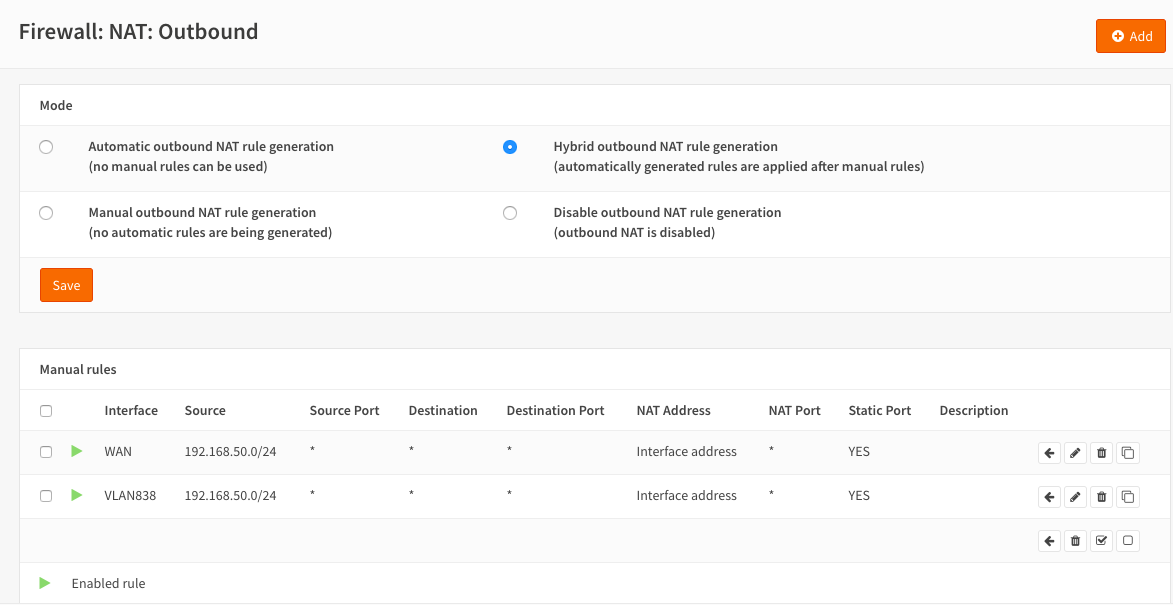
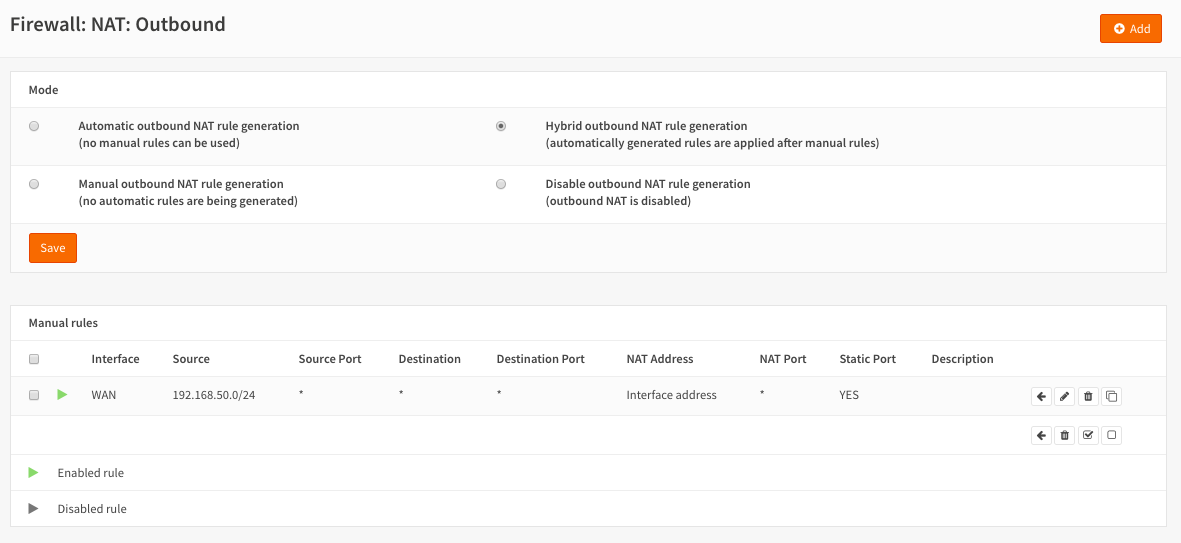
Orange France IPTV VLAN changes
Remove creation of VLAN 838 and add firewall documentation re options

diff --git a/source/manual/how-tos/orange_fr_tvf.rst b/source/manual/how-tos/orange_fr_tvf.rst
@@ -11,59 +11,34 @@ This guide is for setting up Orange France IPTV and assumes you already have a w
 **Getting ready**
 -----------------
 
-Orange uses two VLANs for TV. VLAN 838 and 840
-Create and assign them as shown.
+Orange uses a VLAN 840 for TV 
+Create and assign as shown.
 
 .. image:: images/tv_image01.png
-    :width: 100%
+	:scale: 100%
 
 Take note of the PCP values
 
-Assign the VLANs as shown and also assign TVLAN for use later.
+Assign the VLAN as shown and also assign TVLAN for use later. 
 
 .. image:: images/tv_image02.png
-    :width: 100%
+	:scale: 100% 
 
 igb0 is the WAN in this example. Select the interface that corresponds to WAN in your setup.
 
 TVLAN is assigned to a free port on your router which the TVDecoder is plugged into later.
 
 
-**VLAN 838 setup**
-------------------
-
-.. image:: images/tv_image03.png
-    :width: 100%
-
-.. image:: images/tv_image04.png
-    :width: 100%
-
-SEND OPTIONS
-
-dhcp-client-identifier 1:xx:xx:xx:xx:xx:xx,
-REPLACE xx with MAC Address of the Livebox (NOT the TVDecoder) the leading 1 is important
-
-dhcp-class-identifier "sagem",
-
-user-class "'FSVDSL_livebox.MLTV.softathome.Livebox3".
-NOTE the leading ‘  before the string. Also although not strictky necessary Livebox3 part of the string is for LiveBox3 users if you are Livebox4 user change as required.
-
-
-REQUEST OPTIONS
-
-subnet-mask,routers, ntp-servers, www-server, classless-routes
-
-
 **VLAN 840 setup**
 ------------------
 
 .. image:: images/tv_image05.png
-    :width: 100%
+	:scale: 100%
 
 .. image:: images/tv_image06.png
-    :width: 100%
+	:scale: 100%
 
-The dummy IP address is important or IGMPproxy does not start
+The dummy IP address is important or IGMPproxy does not start 
 
 
 **TVLAN setup**
@@ -73,68 +48,67 @@ The dummy IP address is important or IGMPproxy does not start
 
 
 .. image:: images/tv_image07.png
-    :width: 100%
+	:scale: 100% 
 
 
 .. image:: images/tv_image08.png
-    :width: 100%
+	:scale: 100% 
 
 
-Use a different subnet to current LAN
+Use a different subnet to current LAN 
 
 Turn on the DHCP service for TVLAN
 
-NOTE YOU MUST specify the ORANGE DNS servers for the TV to work
+NOTE YOU MUST specify the ORANGE DNS servers for the TV to work 
 
 .. image:: images/tv_image09.png
-    :width: 100%
-
-Now reboot and you should have an IP address on VLAN 838 of 10.x.x.x
+	:scale: 100% 
 
 
 **IGMPproxy setup**
 -------------------
 
-Ensure you are running OPNsense 18.7.4 or later
-
-Then configure IGMPproxy as follows
+Ensure you are running the latest version of OPNsense
+Then configure IGMPproxy as follows 
 
 .. image:: images/tv_image10.png
-    :width: 100%
+	:scale: 100% 
 
 .. image:: images/tv_image11.png
-    :width: 100%
+	:scale: 100% 
 
 
 NOTE: downstream interface is TVLAN
 
 .. image:: images/tv_image12.png
-    :width: 100%
+	:scale: 100% 
 
 
 **FIREWALL setup**
 ------------------
 
-We need to allow traffic to flow on the VLANs and TVLAN and also to connect with Orange servers
-
-.. image:: images/tv_image13.png
-    :width: 100%
+We need to allow traffic to flow on the VLAN and TVLAN and also to connect with Orange servers
 
 .. image:: images/tv_image14.png
-    :width: 100%
+	:scale: 100% 
 
 NOTE the Source is "*"
 
 .. image:: images/tv_image15.png
-    :width: 100%
+	:scale: 100% 
+
+Note on both the above rules you must allow options
+
+.. image:: images/tv_image13.png
+	:scale: 100% 
 
 And finally the outbound
 
 .. image:: images/tv_image16.png
-    :width: 100%
+	:scale: 100% 
 
-Make sure you have clicked Save & Apply
-
+Make sure you have clicked Save & Apply 
+ 
 It is advisable at this point to reboot the system.
 
 Plug in your TVDecoder to the port defined for TVLAN, turn on the decoder and after a few minutes you should see TV.
